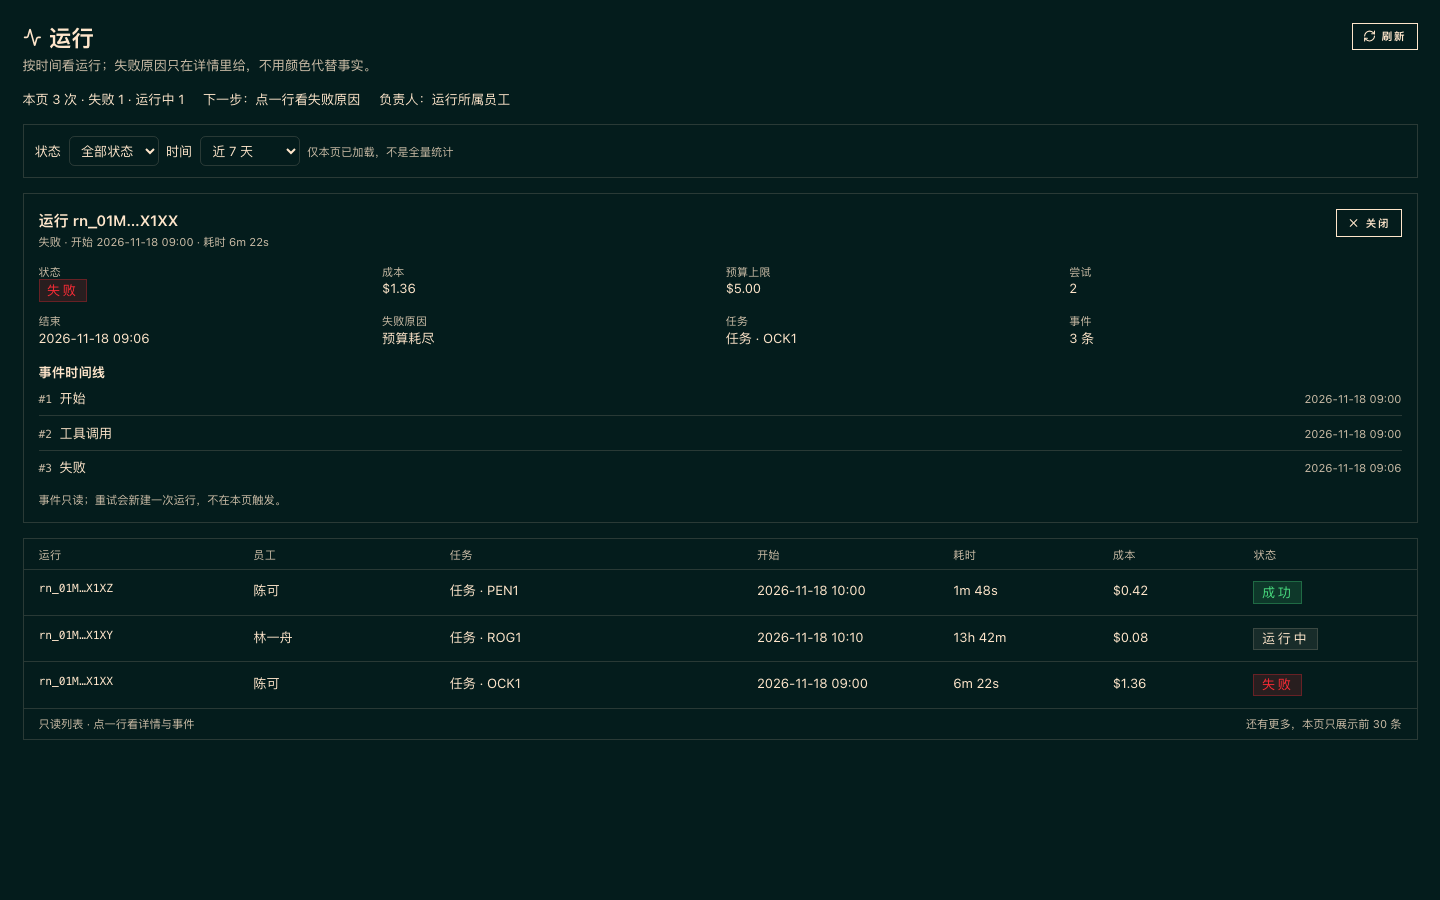
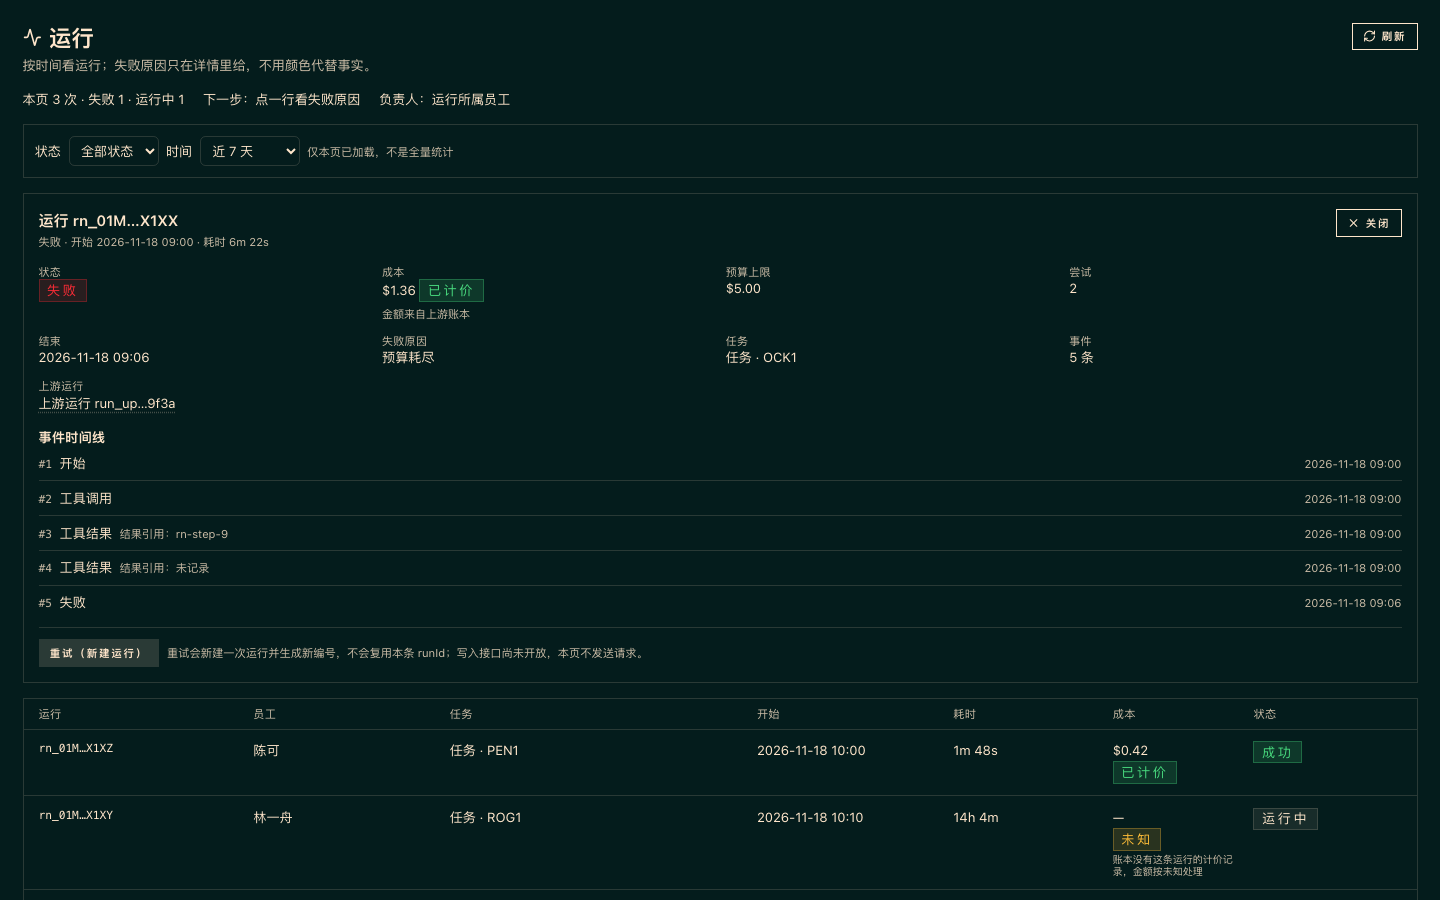
feat(console): deepen run cost, upstream link and tool refs (T15)

diff --git a/web/src/modules/runs/RunsModulePage.tsx b/web/src/modules/runs/RunsModulePage.tsx
@@ -3,6 +3,7 @@
  * /api/run-detail, /api/run-events. No retry/cancel write is exposed.
  */
 import { useCallback, useEffect, useMemo, useState } from "react";
+import { Link, useSearchParams } from "react-router";
 import { Activity, AlertTriangle, Inbox, RefreshCw, ShieldAlert, X } from "lucide-react";
 
 import { Badge } from "@nous-research/ui/ui/components/badge";
@@ -13,12 +14,17 @@ import { fetchJSON } from "@/lib/api";
 import {
   beijing,
   duration,
+  costBadgeLabel,
+  costReason,
+  costState,
+  costText,
   errorInfo,
   eventLabel,
   loadRunDetail,
   loadRunEvents,
   loadRuns,
   reasonLabel,
+  resultRef,
   shortId,
   taskLabel,
   statusLabel,
@@ -135,13 +141,32 @@ function Detail({ state, onClose, onRetry }: { state: DetailState; onClose: () =
           <>
             <div className="grid gap-3 text-sm sm:grid-cols-2 xl:grid-cols-4">
               <div><span className="block text-[11px] uppercase tracking-wide text-muted-foreground">状态</span><Badge tone={statusTone(state.run.status)}>{statusLabel(state.run.status)}</Badge></div>
-              <div><span className="block text-[11px] uppercase tracking-wide text-muted-foreground">成本</span><span>{usd(state.run.costUsd)}</span></div>
+              <div>
+                <span className="block text-[11px] uppercase tracking-wide text-muted-foreground">成本</span>
+                <span>{costText(state.run)}</span>{" "}
+                <Badge tone={costState(state.run) === "known" ? "success" : costState(state.run) === "unknown" ? "warning" : "outline"}>{costBadgeLabel(state.run)}</Badge>
+                <span className="mt-1 block text-[11px] text-muted-foreground">{costReason(state.run)}</span>
+              </div>
               <div><span className="block text-[11px] uppercase tracking-wide text-muted-foreground">预算上限</span><span>{usd(state.run.budgetCapUsd)}</span></div>
               <div><span className="block text-[11px] uppercase tracking-wide text-muted-foreground">尝试</span><span>{state.run.attemptNo ?? "—"}</span></div>
               <div><span className="block text-[11px] uppercase tracking-wide text-muted-foreground">结束</span><span>{beijing(state.run.endedAt)}</span></div>
               <div><span className="block text-[11px] uppercase tracking-wide text-muted-foreground">失败原因</span><span>{reasonLabel(state.run.reasonCode)}</span></div>
               <div><span className="block text-[11px] uppercase tracking-wide text-muted-foreground">任务</span><span title={state.run.taskId}>{taskLabel(state.run.taskId)}</span></div>
               <div><span className="block text-[11px] uppercase tracking-wide text-muted-foreground">事件</span><span>{state.events.length} 条{state.eventsError ? "（部分读取失败）" : ""}</span></div>
+              <div className="sm:col-span-2">
+                <span className="block text-[11px] uppercase tracking-wide text-muted-foreground">上游运行</span>
+                {state.run.upstreamRunId ? (
+                  <Link
+                    className="text-sm underline decoration-dotted underline-offset-2"
+                    to={`/runs?upstream=${encodeURIComponent(state.run.upstreamRunId)}`}
+                    title={state.run.upstreamRunId}
+                  >
+                    上游运行 {shortId(state.run.upstreamRunId)}
+                  </Link>
+                ) : (
+                  <span>—</span>
+                )}
+              </div>
             </div>
             {state.eventsError ? <p className="text-xs text-muted-foreground">{state.eventsError}</p> : null}
             <div className="space-y-2">
@@ -153,13 +178,27 @@ function Detail({ state, onClose, onRetry }: { state: DetailState; onClose: () =
                   {state.events.map((ev) => (
                     <li key={ev.seq} className="flex min-w-0 flex-wrap items-baseline gap-2 border-b border-border pb-2 text-sm last:border-0">
                       <span className="font-mono text-xs text-muted-foreground">#{ev.seq}</span>
-                      <span className="min-w-0 flex-1">{eventLabel(ev.eventType)}</span>
+                      <span className="min-w-0 flex-1">
+                        {eventLabel(ev.eventType)}
+                        {ev.eventType === "tool_result" ? (
+                          <span className="ml-2 text-xs text-muted-foreground" title={resultRef(ev) ?? undefined}>
+                            结果引用：{resultRef(ev) ? shortId(resultRef(ev) as string) : "未记录"}
+                          </span>
+                        ) : null}
+                      </span>
                       <span className="text-xs text-muted-foreground">{beijing(ev.occurredAt)}</span>
                     </li>
                   ))}
                 </ol>
               )}
-              <p className="text-xs text-muted-foreground">事件只读；重试会新建一次运行，不在本页触发。</p>
+              <div className="flex flex-wrap items-center gap-2 border-t border-border pt-3">
+                <Button size="sm" outlined disabled data-testid="run-retry-planned" title="写入接口未开放">
+                  重试（新建运行）
+                </Button>
+                <span className="text-xs text-muted-foreground">
+                  重试会新建一次运行并生成新编号，不会复用本条 runId；写入接口尚未开放，本页不发送请求。
+                </span>
+              </div>
             </div>
           </>
         )}
@@ -169,6 +208,9 @@ function Detail({ state, onClose, onRetry }: { state: DetailState; onClose: () =
 }
 
 export function RunsModulePage() {
+  const [sp, setSp] = useSearchParams();
+  const runParam = sp.get("run");
+  const upstream = sp.get("upstream");
   const [since, setSince] = useState<SinceKey>("7d");
   const [status, setStatus] = useState("");
   const [list, setList] = useState<ListState>({ phase: "loading", rows: [], cursor: null, status: 0, message: "", requestId: null });
@@ -176,6 +218,24 @@ export function RunsModulePage() {
   const [employees, setEmployees] = useState<EmployeeMap>(new Map());
   const [selected, setSelected] = useState<string | null>(null);
   const [detail, setDetail] = useState<DetailState>({ k: "idle" });
+
+  useEffect(() => {
+    if (runParam) setSelected(runParam);
+  }, [runParam]);
+
+  useEffect(() => {
+    if (upstream) setSelected(null);
+  }, [upstream]);
+
+  const openRun = useCallback((id: string) => {
+    setSelected(id);
+    setSp({ run: id }, { replace: true });
+  }, [setSp]);
+
+  const closeRun = useCallback(() => {
+    setSelected(null);
+    setSp({}, { replace: true });
+  }, [setSp]);
 
   useEffect(() => {
     let alive = true;
@@ -289,7 +349,20 @@ export function RunsModulePage() {
         </CardContent>
       </Card>
 
-      <Detail state={detail} onClose={() => setSelected(null)} onRetry={retry} />
+      {upstream ? (
+        <Card data-testid="upstream-panel">
+          <CardContent className="flex flex-col items-start gap-2 p-4">
+            <h2 className="text-base font-semibold">上游运行</h2>
+            <p className="break-all font-mono text-xs text-muted-foreground" data-testid="upstream-run-id">{upstream}</p>
+            <p className="text-sm text-muted-foreground">
+              这是 Hermes 运行时的上游编号。控制台没有上游详情页，编号可用于运行时排查；本页不会伪造上游数据。
+            </p>
+            <Link className="text-sm underline decoration-dotted underline-offset-2" to="/runs">返回运行列表</Link>
+          </CardContent>
+        </Card>
+      ) : null}
+
+      <Detail state={detail} onClose={closeRun} onRetry={retry} />
 
       {list.phase === "loading" ? <Skeleton /> : null}
       {list.phase === "empty" ? (
@@ -318,14 +391,20 @@ export function RunsModulePage() {
                     type="button"
                     className="grid w-full min-w-0 grid-cols-1 gap-x-3 gap-y-1 px-4 py-3 text-left text-sm hover:bg-muted/40 focus-visible:bg-muted/40 focus-visible:outline-none sm:grid-cols-[minmax(0,1.1fr)_minmax(0,1fr)_minmax(0,1.6fr)_minmax(0,1fr)_minmax(0,0.8fr)_minmax(0,0.7fr)_minmax(0,0.8fr)]"
                     data-testid={`run-row-${row.runId}`}
-                    onClick={() => setSelected(row.runId)}
+                    onClick={() => openRun(row.runId)}
                   >
                     <span className="font-mono text-xs" title={row.runId}>{shortId(row.runId)}</span>
                     <span className="min-w-0 truncate">{rowLabel(row, employees)}</span>
                     <span className="min-w-0 truncate" title={row.taskId}>{taskLabel(row.taskId)}</span>
                     <span>{beijing(row.startedAt)}</span>
                     <span>{duration(row.startedAt, row.endedAt)}</span>
-                    <span>{usd(row.costUsd)}</span>
+                    <span className="flex min-w-0 flex-col items-start gap-0.5" title={costReason(row)}>
+                      <span>{costText(row)}</span>
+                      <Badge tone={costState(row) === "known" ? "success" : costState(row) === "unknown" ? "warning" : "outline"}>{costBadgeLabel(row)}</Badge>
+                      {costState(row) !== "known" ? (
+                        <span className="text-[10px] leading-tight text-muted-foreground">{costReason(row)}</span>
+                      ) : null}
+                    </span>
                     <span><Badge tone={statusTone(row.status)}>{statusLabel(row.status)}</Badge></span>
                   </button>
                 </li>

diff --git a/web/src/modules/runs/RunsModulePage.test.tsx b/web/src/modules/runs/RunsModulePage.test.tsx
@@ -1,6 +1,7 @@
 // @vitest-environment jsdom
 import { act } from "react";
 import { createRoot, type Root } from "react-dom/client";
+import { MemoryRouter } from "react-router";
 import { afterEach, beforeEach, describe, expect, it, vi } from "vitest";
 
 import { ApiError } from "@/lib/api-error";
@@ -33,6 +34,7 @@ const run = {
   taskId: "tsk_open_1",
   status: "failed",
   reasonCode: "run.budget_exhausted",
+  costStatus: "upstream",
   costUsd: 0.42,
   startedAt: "2026-11-18T02:00:00Z",
   endedAt: "2026-11-18T02:01:48Z",
@@ -42,20 +44,31 @@ const run = {
 
 function ok(url: string): unknown {
   if (url.includes("/api/employees")) return { items: [{ employeeId: "emp_9f3a4b7c", name: "陈可" }] };
-  if (url.includes("/api/run-detail")) return run;
+  if (url.includes("/api/run-detail")) return { ...run, upstreamRunId: "run_upstream_9f3a" };
   if (url.includes("/api/run-events")) {
     return { items: [
       { runId: run.runId, seq: 1, eventType: "started", occurredAt: "2026-11-18T02:00:00Z", payload: {} },
       { runId: run.runId, seq: 2, eventType: "tool_call", occurredAt: "2026-11-18T02:00:30Z", payload: {} },
-      { runId: run.runId, seq: 3, eventType: "completed", occurredAt: "2026-11-18T02:01:48Z", payload: {} },
+      { runId: run.runId, seq: 3, eventType: "tool_result", occurredAt: "2026-11-18T02:01:40Z", payload: { resultRef: "rn-step-9" } },
+      { runId: run.runId, seq: 4, eventType: "tool_result", occurredAt: "2026-11-18T02:01:45Z", payload: {} },
+      { runId: run.runId, seq: 5, eventType: "completed", occurredAt: "2026-11-18T02:01:48Z", payload: {} },
     ], nextSeq: 2, hasMore: false };
   }
   if (url.includes("/api/runs")) return { items: [run], nextCursor: "cur-2" };
   return {};
 }
 
-async function render() {
-  await act(async () => { root.render(<RunsModulePage />); });
+async function render(entry = "/runs") {
+  await act(async () => {
+    root.unmount();
+  });
+  container.remove();
+  container = document.createElement("div");
+  document.body.appendChild(container);
+  root = createRoot(container);
+  await act(async () => {
+    root.render(<MemoryRouter initialEntries={[entry]}><RunsModulePage /></MemoryRouter>);
+  });
   await act(async () => {});
 }
 
@@ -79,8 +92,38 @@ describe("RunsModulePage", () => {
     await act(async () => {});
     expect(container.textContent).toContain("预算耗尽");
     expect(container.textContent).toContain("工具调用");
-    expect(container.textContent).toContain("完成");
-    expect(container.querySelector('[data-testid="run-events"]')?.children.length).toBe(3);
+    expect(container.textContent).toContain("已计价");
+    expect(container.textContent).toContain("结果引用：rn-step-9");
+    expect(container.textContent).toContain("结果引用：未记录");
+    expect(container.textContent).toContain("重试（新建运行）");
+    expect(container.textContent).toContain("不会复用本条 runId");
+    const retry = container.querySelector('[data-testid="run-retry-planned"]') as HTMLButtonElement;
+    expect(retry.disabled).toBe(true);
+    const upstream = container.querySelector('a[href^="/runs?upstream="]') as HTMLAnchorElement;
+    expect(upstream).toBeTruthy();
+    expect(upstream.getAttribute("href")).toContain("run_upstream_9f3a");
+    expect(container.querySelector('[data-testid="run-events"]')?.children.length).toBe(5);
+  });
+
+  it("renders unknown cost as — with a reason, never as 0", async () => {
+    fetchJSON.mockImplementation((url: string) =>
+      url.includes("/api/runs")
+        ? Promise.resolve({ items: [{ ...run, costStatus: "unknown", costUsd: 0.42 }] })
+        : Promise.resolve(ok(url)),
+    );
+    await render();
+    const text = container.textContent ?? "";
+    expect(text).toContain("未知");
+    expect(text).toContain("账本没有这条运行的计价记录");
+    expect(text).not.toContain("$0.42");
+    expect(container.querySelector('[data-testid="runs-table"]')).toBeTruthy();
+  });
+
+  it("opens a real upstream deep link instead of a dead anchor", async () => {
+    fetchJSON.mockImplementation((url: string) => Promise.resolve(ok(url)));
+    await render("/runs?upstream=run_upstream_9f3a");
+    expect(container.querySelector('[data-testid="upstream-run-id"]')?.textContent).toBe("run_upstream_9f3a");
+    expect(container.textContent).toContain("返回运行列表");
   });
 
   it("turns a 400 into a filter-reading message with a request id", async () => {
@@ -108,13 +151,7 @@ describe("RunsModulePage", () => {
         ? Promise.reject(new ApiError("gone", { status: 404, body: "{}", url, requestId: "req-404" }))
         : Promise.resolve(ok(url)),
     );
-    await act(async () => root.unmount());
-    container.remove();
-    container = document.createElement("div");
-    document.body.appendChild(container);
-    root = createRoot(container);
-    await act(async () => root.render(<RunsModulePage />));
-    await act(async () => {});
+    await render();
     expect(container.textContent).toContain("运行记录暂不可见");
     expect(container.textContent).toContain("req-404");
   });

diff --git a/web/src/modules/runs/runsPage.ts b/web/src/modules/runs/runsPage.ts
@@ -213,6 +213,35 @@ export function duration(start?: string, end?: string): string {
   return min < 60 ? `${min}m ${sec % 60}s` : `${Math.floor(min / 60)}h ${min % 60}m`;
 }
 
+export type CostState = "known" | "unknown" | "missing";
+
+/** costStatus is the only authority for whether a cost figure is usable. */
+export function costState(run: Pick<RunRow, "costStatus" | "costUsd">): CostState {
+  if (run.costStatus === "unknown") return "unknown";
+  if (!run.costStatus) return "missing";
+  return "known";
+}
+
+export function costText(run: Pick<RunRow, "costStatus" | "costUsd">): string {
+  return costState(run) === "known" ? usd(run.costUsd) : "—";
+}
+
+export function costBadgeLabel(run: Pick<RunRow, "costStatus">): string {
+  const state = costState(run);
+  if (state === "unknown") return "未知";
+  if (state === "missing") return "未记录";
+  return "已计价";
+}
+
+export function costReason(run: Pick<RunRow, "costStatus" | "costUsd">): string {
+  const state = costState(run);
+  if (state === "unknown") return "账本没有这条运行的计价记录，金额按未知处理";
+  if (state === "missing") return "服务未返回计价状态，金额按未记录处理";
+  if (run.costStatus === "estimated") return "金额为估算值";
+  if (run.costStatus === "mixed") return "金额含上游账本与估算两种来源";
+  return "金额来自上游账本";
+}
+
 export function usd(v?: number | null): string {
   if (v == null || !Number.isFinite(v)) return "—";
   return `$${v.toLocaleString("en-US", { minimumFractionDigits: 2, maximumFractionDigits: 2 })}`;
@@ -274,4 +303,11 @@ export function taskLabel(raw?: string): string {
   if (!raw) return "—";
   const bare = raw.replace(/^[^:]*:/, "").replace(/[^0-9A-Za-z]/g, "");
   return bare ? `任务 · ${bare.slice(-4).toUpperCase()}` : "任务";
+}
+
+/** resultRef is stored on ToolIntent, not always echoed by the event API. */
+export function resultRef(ev: { eventType?: string; payload?: Record<string, unknown> }): string | null {
+  if (ev.eventType !== "tool_result") return null;
+  const raw = ev.payload?.resultRef ?? ev.payload?.result_ref;
+  return typeof raw === "string" && raw.trim() ? raw.trim() : null;
 }

diff --git a/docs/_artifacts/work/DONE.md b/docs/_artifacts/work/DONE.md
@@ -119,3 +119,44 @@ $ cd web && pnpm exec vitest run src/modules/runs
 - Cursor reads beyond the first 30 rows are shown as「还有更多」text, not silently paginated; a load-more
   control belongs to the next pass.
 - Live BFF 200 / real 400 fixture was not available in the worktree; 400 rendering is covered by vitest.
+
+---
+
+# T15 深化 — costStatus / upstream 深链 / ToolIntent / 重试语义
+
+- ① 成本三态：`known`（upstream/estimated/mixed）显示金额 +「已计价」徽章；`unknown` 与 `missing`
+  强制显示 `—`，并给出可见原因（账本无计价记录 / 服务未返回计价状态），不显示 0、不空白。
+- ② `upstreamRunId` 深链：详情内为真实链接 `/runs?upstream=<id>`，落地页展示上游编号与说明；
+  不是 `#` 死链。上游运行时没有可复用的详情 UI，页面不伪造上游数据。
+- ③ 时间线：`tool_result` 事件读 `payload.resultRef`；有值显示短引用，缺失显式「未记录」。
+- ④ 重试：只显示禁用的「重试（新建运行）」，文案写明会生成新 runId、绝不复用本条；写入接口未开放，
+  不发送假成功请求。
+- ⑤ 四态：loading / empty / error（请求号+重试）/ denied（403/404 同体），400 另有人话说明。
+- ⑥ 375：`document.scrollWidth=375`，详情与表格均无横向溢出。
+
+## T15 深化命令 + 原始输出
+
+```bash
+$ PATH="/opt/homebrew/bin:$PATH" pnpm --filter web build
+✓ built in 2.30s
+built /Users/kevin_studio/Projects/forks/console-work/hermes_cli/web_dist/index.html
+# EXIT: 0
+# assets: 55 files / 2.8M
+$ cd web && pnpm exec vitest run src/modules/runs
+ Test Files  1 passed (1)
+      Tests  6 passed (6)
+```
+
+```bash
+# 375 viewport after opening a run:
+{"w":375,"sw":375,"detail":true,"events":5}
+```
+
+截图已覆盖更新：`docs/_artifacts/work/shots/t15-1440.png`、`t15-375.png`。
+
+## T15 深化诚实缺口
+
+- 上游运行没有详情页可用，② 的深链落在本控制台的真实 `?upstream=` 路由，而不是外部上游详情；
+  若要跳 Hermes 运行时原生详情，需要新增上游 UI 路由（不在本车道写域）。
+- ④ 仍是禁用态：BFF 没有 `POST /runs` 写路由；等 D 打开后才可真正新建 Run。
+- 截图使用临时 dev preview + mock 200，preview 文件已删除；真实 BFF 200 未取。
